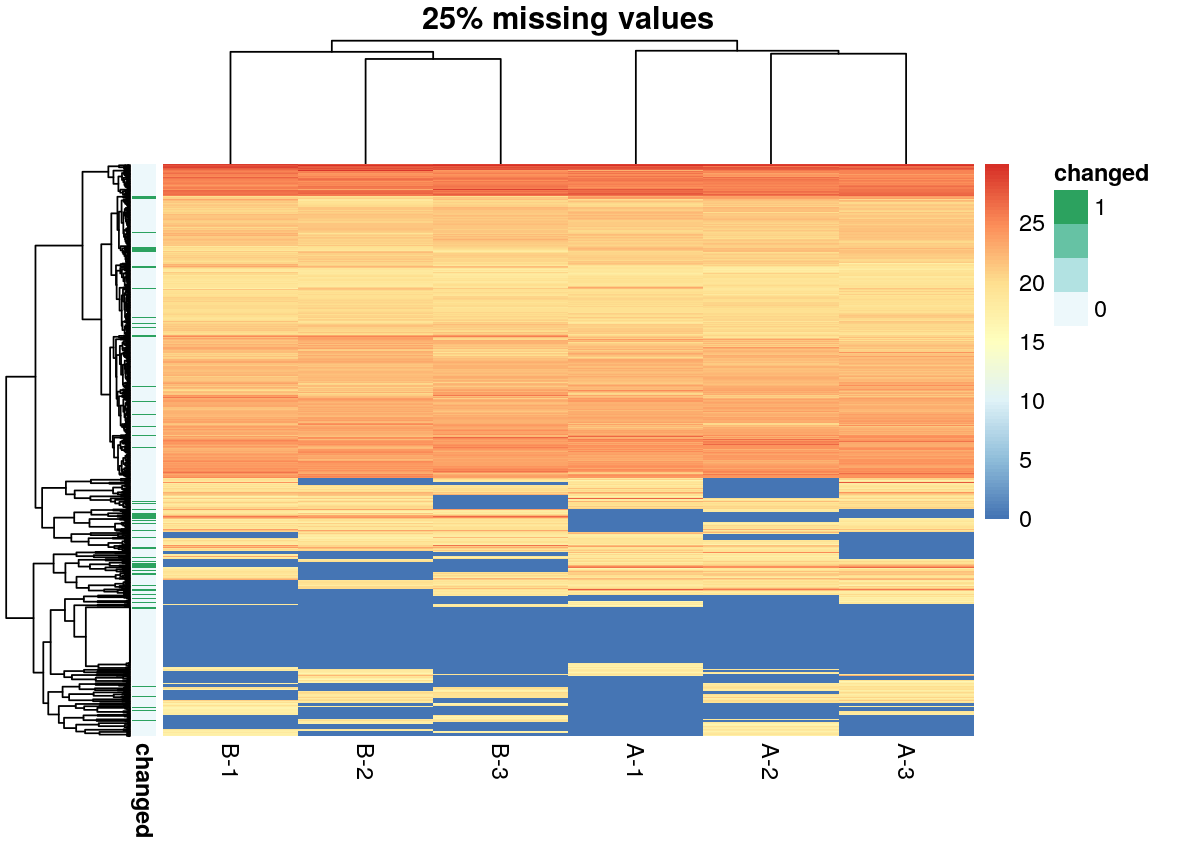
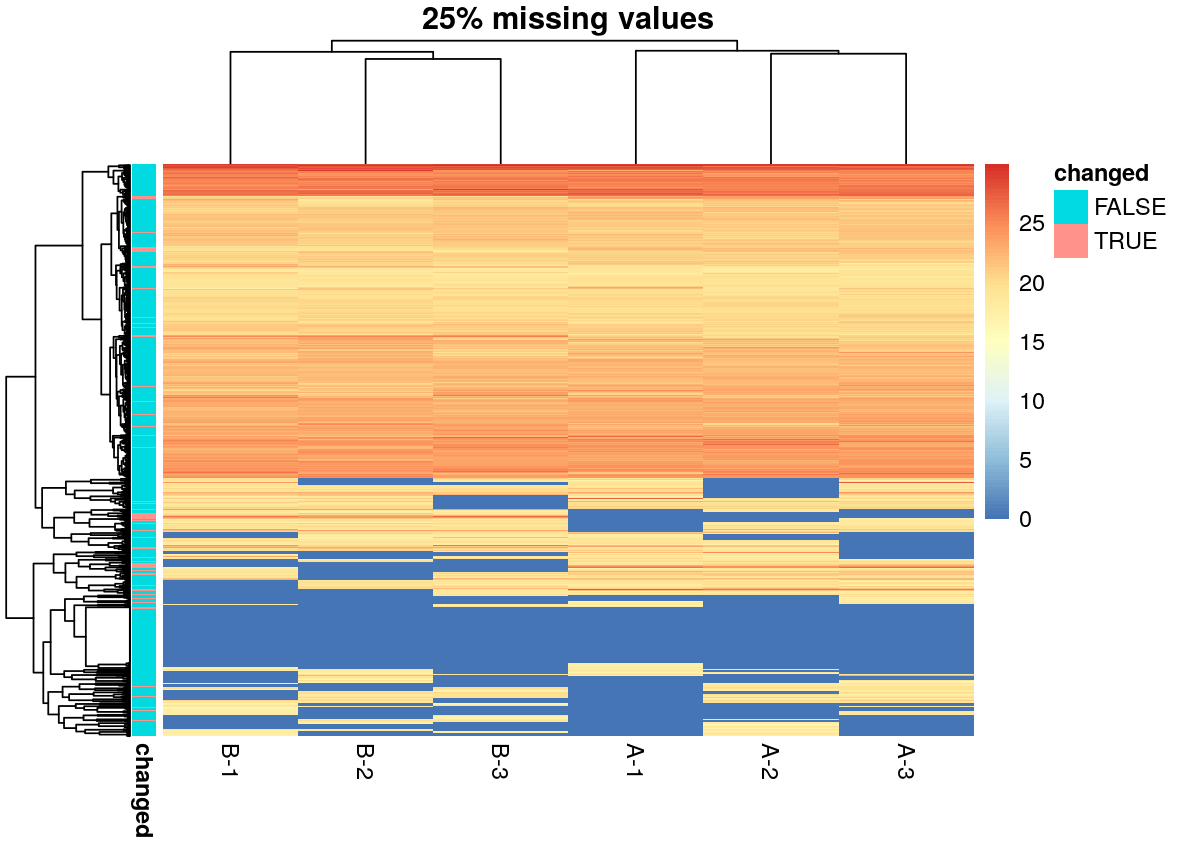
Update README.md

Changed region(s): [[0.0933, 0.1835, 0.1555, 0.8871], [0.8706, 0.2141, 0.9639, 0.3671]]

diff --git a/README.md b/README.md
@@ -73,7 +73,8 @@ X_for_plotting <- X
 X_for_plotting[is.na(X_for_plotting)] <- 0
 pheatmap(X_for_plotting,
          main=paste0(round(sum(is.na(X))/prod(dim(X)) * 100), "% missing values"),
-         annotation_row = data.frame(changed=syn_data$changed * 1.0, row.names = rownames(X_for_plotting)),
+         annotation_row = data.frame(changed=as.factor(syn_data$changed),
+                                     row.names = rownames(X_for_plotting)),
          show_rownames = FALSE)
 ```
 
@@ -137,7 +138,7 @@ params
 #> zeta:     -1.05, -1.11, -1.04, -1.04, -0.916, -1.06
 ```
 
-As we can see the method has successfully converged so we can continue. If it would not have converged increase `max_iter`. Also we are currently working on a moderately sized data set, usually a thousand proteins are enough to make good estimates of the hyper-parameters, if your dataset has many proteins you can easily speed up the inference by setting for example `n_subsample=1000`.
+As we can see the method has successfully converged so we can continue. If it would not have converged increase `max_iter`. In this example we are working on a moderately sized data set, usually a thousand proteins are enough to make good estimates of the hyper-parameters, if your dataset has many proteins you can easily speed up the inference by setting for example `n_subsample=1000`.
 
 Knowing the general distribution of our data, we might be interested how the samples are related. Naively we would just calculate the distance matrix using `dist(t(X))`. But `dist` simply scales up vectors containing missing values, which is equivalent to some kind of mean imputation, which does not really make sense as we have seen when we looked where missing values actually occur.
 
@@ -154,11 +155,9 @@ pheatmap(as.matrix(naive_dist), cluster_rows=FALSE, cluster_cols = FALSE,
 
 Instead our package provides a function called `dist_approx` that estimates the distances and properly takes into account the missing values. But due to the missing values we cannot be certain of the exact distance. Thus the function returns in addition to the best guess of the distance an estimate how variable that guess is.
 
-If we were to call `dist_approx` directly with the `params` object this could bias our result, because the missing values would be inferred using the group structure. But usually this is exactly what we want to check in the first place. Instead we transform the parameter object and act as if every sample belonged to the same condition.
-
 ``` r
 # Removing condtion information to get unbiased results
-dist_proDD <- dist_approx(X, transform_parameters(params, rep(1, times=ncol(X))))
+dist_proDD <- dist_approx(X, params, by_sample=TRUE, blind=TRUE)
 # The mean and standard deviation of the sample distance estimates
 pheatmap(as.matrix(dist_proDD$mean), cluster_rows=FALSE, cluster_cols=FALSE,
          color=viridisLite::plasma(n=100, direction=-1),
